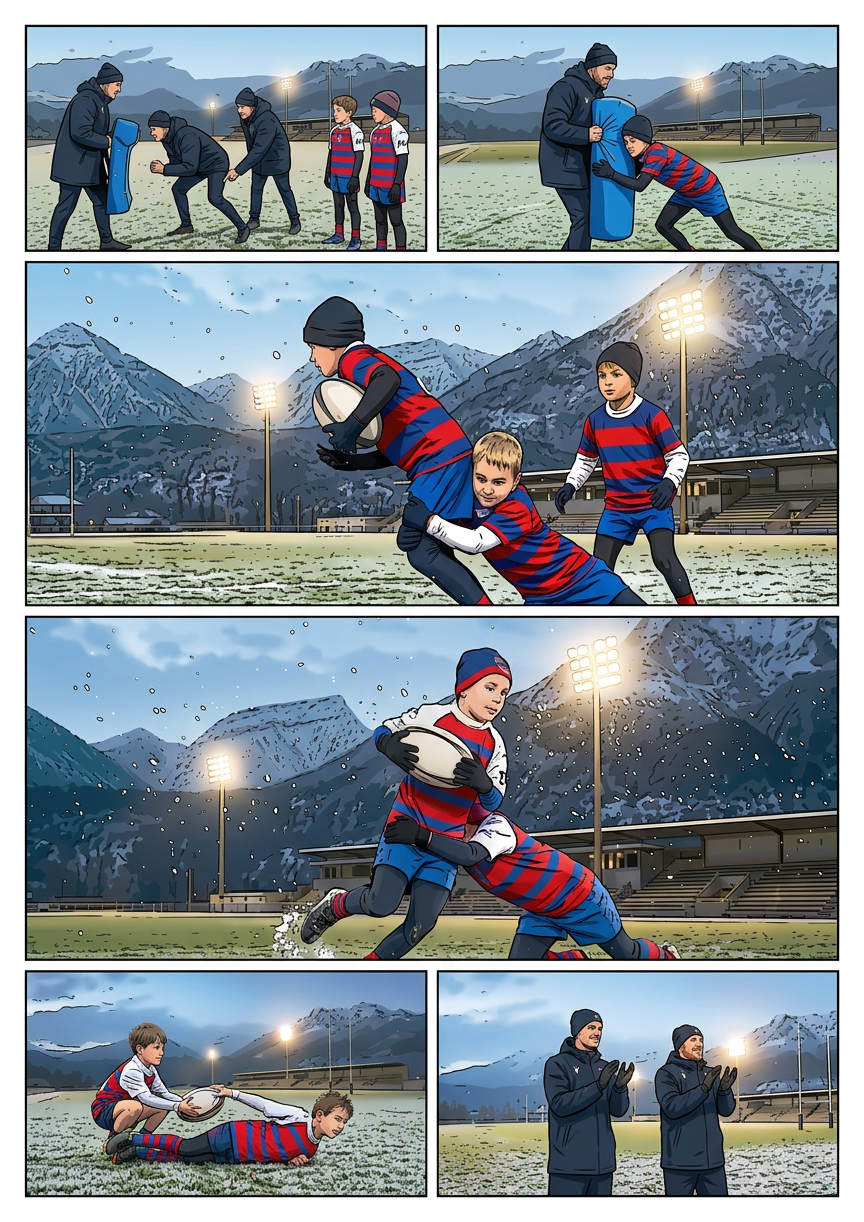
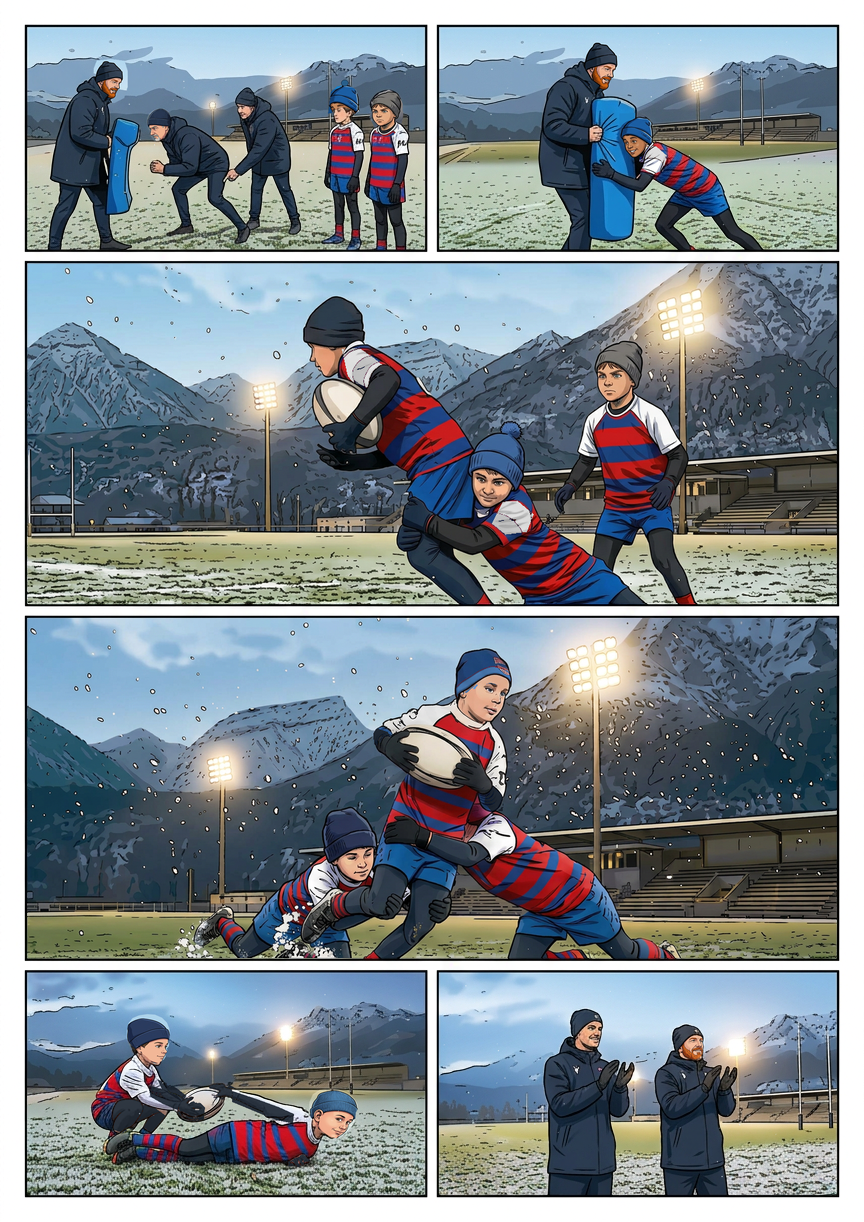
Reprendre la planche 18 et signaler la prise de plaquage encore partielle

diff --git a/Planches-dessin/validation/REVUE-COUVERTURE.md b/Planches-dessin/validation/REVUE-COUVERTURE.md
@@ -21,13 +21,13 @@ Les huit recadrages exacts sont dans `revue-couverture/<Prénom>-couverture.png`
 |---|---:|
 | Planches vues en ensemble | 30 |
 | Vignettes réellement inventoriées | 153 |
-| Premières reprises intégrées, encore à relire | 89 |
-| Corrections seulement partielles, à poursuivre | 0 |
+| Premières reprises intégrées, encore à relire | 94 |
+| Corrections seulement partielles, à poursuivre | 1 |
 | Contrôles sans retouche, encore à relire | 1 |
-| Autres vignettes restant à contrôler individuellement | 63 |
+| Autres vignettes restant à contrôler individuellement | 57 |
 | Validations définitives de style et ressemblance | **0** |
 
-Les 89 vignettes ayant reçu une intervention ne sont pas 89 vignettes définitivement conformes. Le reste de la revue demandée n’est pas terminé. Le manifeste `REVUE-COUVERTURE.json` conserve une entrée et un état explicite pour chacune des 153 vignettes.
+Les 95 vignettes ayant reçu une intervention ne sont pas 95 vignettes définitivement conformes. Le reste de la revue demandée n’est pas terminé. Le manifeste `REVUE-COUVERTURE.json` conserve une entrée et un état explicite pour chacune des 153 vignettes.
 
 ## Première livraison : 26/3 et 26/6
 
@@ -335,6 +335,30 @@ Seule 17/4 est reprise dans son ensemble pour réparer le groupe ; les autres ca
 
 **Réserves de continuité à relire :** mêmes cinq visages sous les bonnets entre 17/2, 17/4 et 17/5, âge apparent des visages et écart de détail corps/portraits, forme (pas seulement couleur) des bonnets, mains gantées/occlusions et rattachement des bras aux 20 corps, sous-couches et manches courtes blanches encore à revoir sur les anonymes en arrière-plan, carnation de Nolann visage/cou, cols des coachs et petits raccords des bonnets ajoutés. L'ajout de trois enfants et le repérage de 20 têtes ne certifient pas seuls l'anatomie de tous les bras. Aucun dialogue, bulle ni onomatopée ajouté. Il reste 63 cases à examiner individuellement, puis la relecture transversale de toute la série.
 
+## Vingtième livraison : planche 18 — cinq premières reprises, une correction partielle
+
+**La planche 18 n'est pas terminée : 18/4 reste à reprendre avant de passer à 19.** Les six scénarios et sources réalistes ont été comparés, sans considérer leur dessin comme une preuve de conformité. La source montrait un seul défenseur là où le scénario demande deux plaqueurs et perdait les équipements d'hiver dans la passe au sol.
+
+**18/1 :** Démonstration : Kilian tient le boudin bleu à gauche (barbe rousse rétablie par portrait local issu de 18/2), Julien accroupi au milieu (portrait isolé, moustache/bouc gris) et Flavien pointe bas à droite, conservé. Deux enfants observateurs sont rapprochés d'Ayden/Milo : bonnet bleu ajouté au premier, bonnet/portrait gris pour le second. Le scénario ne nomme pas ces deux spectateurs ; attribution de continuité graphique, pas preuve nominale du texte. Corps, mains, boudin, postures et décor hors masques gardés ; candidat complet rejeté pour cadrage aplati.
+
+**18/2 :** Nolann réalise le plaquage-école sur le boudin : visage mat et bonnet bleu repris, manche courte extérieure blanche sur thermique noir. Kilian retrouve sa barbe rousse sous bonnet, même boudin et même action. Seules tête et zone de manche sont importées ; corps/mains/pad d'origine hors masques préservés. Pas de BOUM ajouté à cette étape.
+
+**18/3 :** Trois acteurs conservés : porteur anonyme à gauche avec le ballon, Ayden en plaquage bas au centre, Milo prêt en soutien à droite. Bonnet bleu à pompon ajouté à Ayden, bonnet gris à Milo ; portraits rapprochés des modèles sous bonnets. Manches extérieures blanches et thermiques/gants noirs rapprochés de l'hiver, dont caps rouges résiduels corrigés localement. Vignette reprise avec même disposition et même ballon encore tenu par le porteur ; pas de récupération anticipée inventée.
+
+**18/4 :** PARTIEL : deuxième défenseur anonyme ajouté à gauche, deux plaqueurs désormais visibles autour de Léon au lieu d'un seul. Bonnet de Léon rapproché du bleu, thermiques longs rapprochés du noir. Le défenseur de gauche prend bas au genou ; le défenseur de droite garde une prise trop haute, encore proche taille/haut de hanche. Ce montage n'est PAS déclaré conforme au plaquage aux jambes : baisser/reconstruire la prise droite avant de poursuivre la validation de cette case. Pas de PAF ajouté.
+
+**18/5 :** Passe vers le soutien : Léon au sol à droite et Lyssandro accroupi à gauche gardent les corps, l'unique ballon et les contacts de mains originaux. Deux portraits isolés ajoutent les bonnets bleu/marine et les traits rapprochés de la couverture. Mains reprises en gants noirs, avant-bras longs en thermiques sombres sous caps blancs et jambes nues du receveur couvertes localement. Candidat complet écarté car il déplaçait/aplatissait l'action et étirait la passe.
+
+**18/6 :** Flavien à gauche et Kilian à droite applaudissent : portrait de Kilian repris localement avec barbe/sourcils roux ; son bonnet original est conservé, sans l'écusson inventé sur le portrait généré. Flavien déjà reconnaissable, corps et quatre mains gantées applaudissant gardés. Candidat complet rejeté pour proportions aplaties et gestes déplacés.
+
+Preuves : `revue-couverture/lot-t/18-AVANT-APRES.jpg`, six masques et **`18-4-A-REPRENDRE.jpg`**, où la prise droite trop haute est entourée. La correction partielle a un état et un type séparés dans le manifeste et ne gonfle pas le nombre de premières reprises complètes. Les trois acteurs visibles de 18/4 sont Léon et deux défenseurs anonymes ; les autres participants du 5 contre 5 sont hors cadre dans ce plan rapproché.
+
+Les têtes/bonnets sont rapprochés de la couverture sans faire sortir les coiffures à travers les bonnets. Les gants et thermiques de 18/5 sont des corrections locales de palette autour des contacts originaux, pas une nouvelle passe inventée par le candidat qui étirait l'action. Le dessin de l'unique ballon reste celui de la case originale. En 18/6, les quatre mains gantées des deux coachs n'ont pas été remplacées et le badge ajouté au bonnet par le portrait candidat n'est pas intégré.
+
+**À faire immédiatement :** reconstruire la prise du défenseur droit en 18/4 entre la taille et les cuisses, clairement sur les jambes, tout en gardant deux petits plaqueurs, le ballon dans les mains de Léon, les contacts distincts et la lisibilité de la chute. L'ajout du deuxième défenseur ne suffit pas à rendre la technique conforme.
+
+**Réserves pour la relecture transversale :** âge/proportions des portraits isolés et sous les bonnets, encrage plus détaillé des montagnes de 18/3–4 que dans les autres cases, raccords des caps blancs/thermiques, détails de gants des trois contacts au ballon en 18/5 et continuité des bonnets avec 17. La présence du ballon dans les mains du porteur de 18/3 ne doit pas devenir une récupération anticipée de Milo. Aucun BOUM, PAF, dialogue, bulle ni autre texte ajouté aux planches. Bilan courant : 94 premières reprises, 1 correction partielle, 1 contrôle sans retouche, 57 cases encore à examiner individuellement ; aucune validation définitive.
+
 ## Contrôles techniques et audits historiques
 
 `outils/retouche/verifier_revue_couverture.py` compare les 31 PNG au début de la revue : couverture inchangée, dimensions, empreintes, absence de modification des fichiers non concernés et invariance des pixels hors masques. Il contrôle également la cohérence des états et du bilan. **Il ne mesure pas la ressemblance ou la qualité du dessin.**
@@ -343,7 +367,7 @@ Les vérificateurs des audits 13–22, comme ceux de 23–30, s’appliquent dé
 
 ## Suite obligatoire
 
-Contrôler individuellement les **63 autres vignettes**, terminer **14/2**, puis relire les premières reprises, notamment les six cases de la planche 4 et les réserves de scénario. Vérifier systématiquement chaque occurrence de Nolann et des sept autres personnages, ainsi que décors et encrage : la revue ne peut pas se limiter aux couleurs de peau/cheveux.
+Contrôler individuellement les **57 autres vignettes**, terminer **14/2**, puis relire les premières reprises, notamment les six cases de la planche 4 et les réserves de scénario. Vérifier systématiquement chaque occurrence de Nolann et des sept autres personnages, ainsi que décors et encrage : la revue ne peut pas se limiter aux couleurs de peau/cheveux.
 
 Procédure : identification au scénario → comparaison aux personnages de couverture → comparaison à la planche réaliste → correction locale → relecture en contexte de page. Les raccords cou/cheveux/mains et les tenues restent à contrôler. Aucun candidat simplement généré n’est automatiquement validé.
 

diff --git a/Planches-dessin/SUIVI-STYLE.md b/Planches-dessin/SUIVI-STYLE.md
@@ -2,7 +2,7 @@
 
 **La couverture `00-couverture-marvel.png` est désormais la seule référence de style et d’identité.** La décision utilisateur remplace la priorité V2 décrite dans l’historique ci-dessous. La couverture reste inchangée.
 
-Suivi actuel : [`validation/REVUE-COUVERTURE.md`](validation/REVUE-COUVERTURE.md) et son manifeste JSON : 153 vignettes inventoriées, 89 premières reprises, 1 contrôle sans retouche, 0 correction partielle, 63 autres contrôles individuels à faire, aucune validation définitive. Les anciennes approbations ne valent pas conformité au nouveau référentiel.
+Suivi actuel : [`validation/REVUE-COUVERTURE.md`](validation/REVUE-COUVERTURE.md) et son manifeste JSON : 153 vignettes inventoriées, 94 premières reprises, 1 contrôle sans retouche, 1 correction partielle, 57 autres contrôles individuels à faire, aucune validation définitive. Les anciennes approbations ne valent pas conformité au nouveau référentiel. Priorité active : terminer la prise droite trop haute de 18/4 avant de passer à la planche 19.
 
 ---
 
